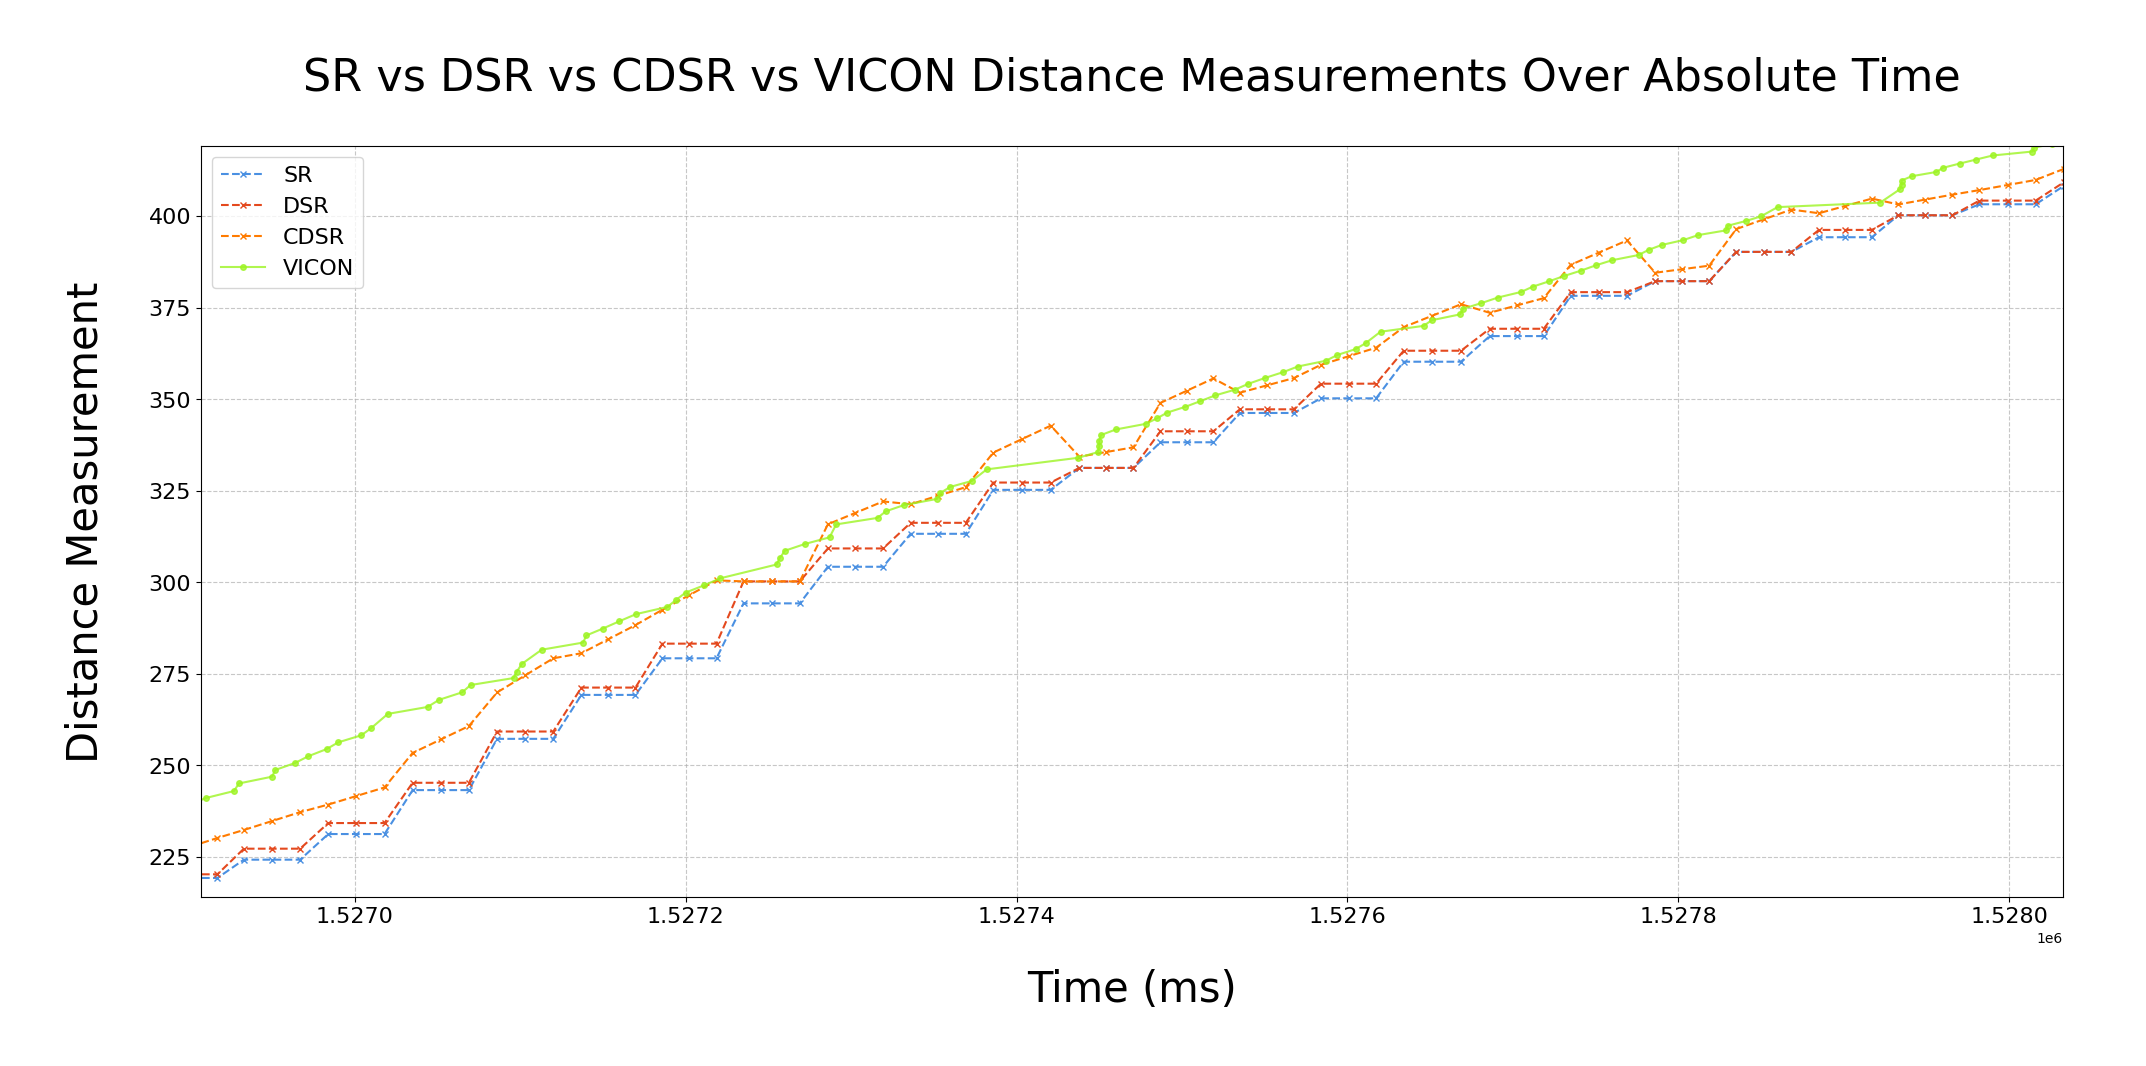
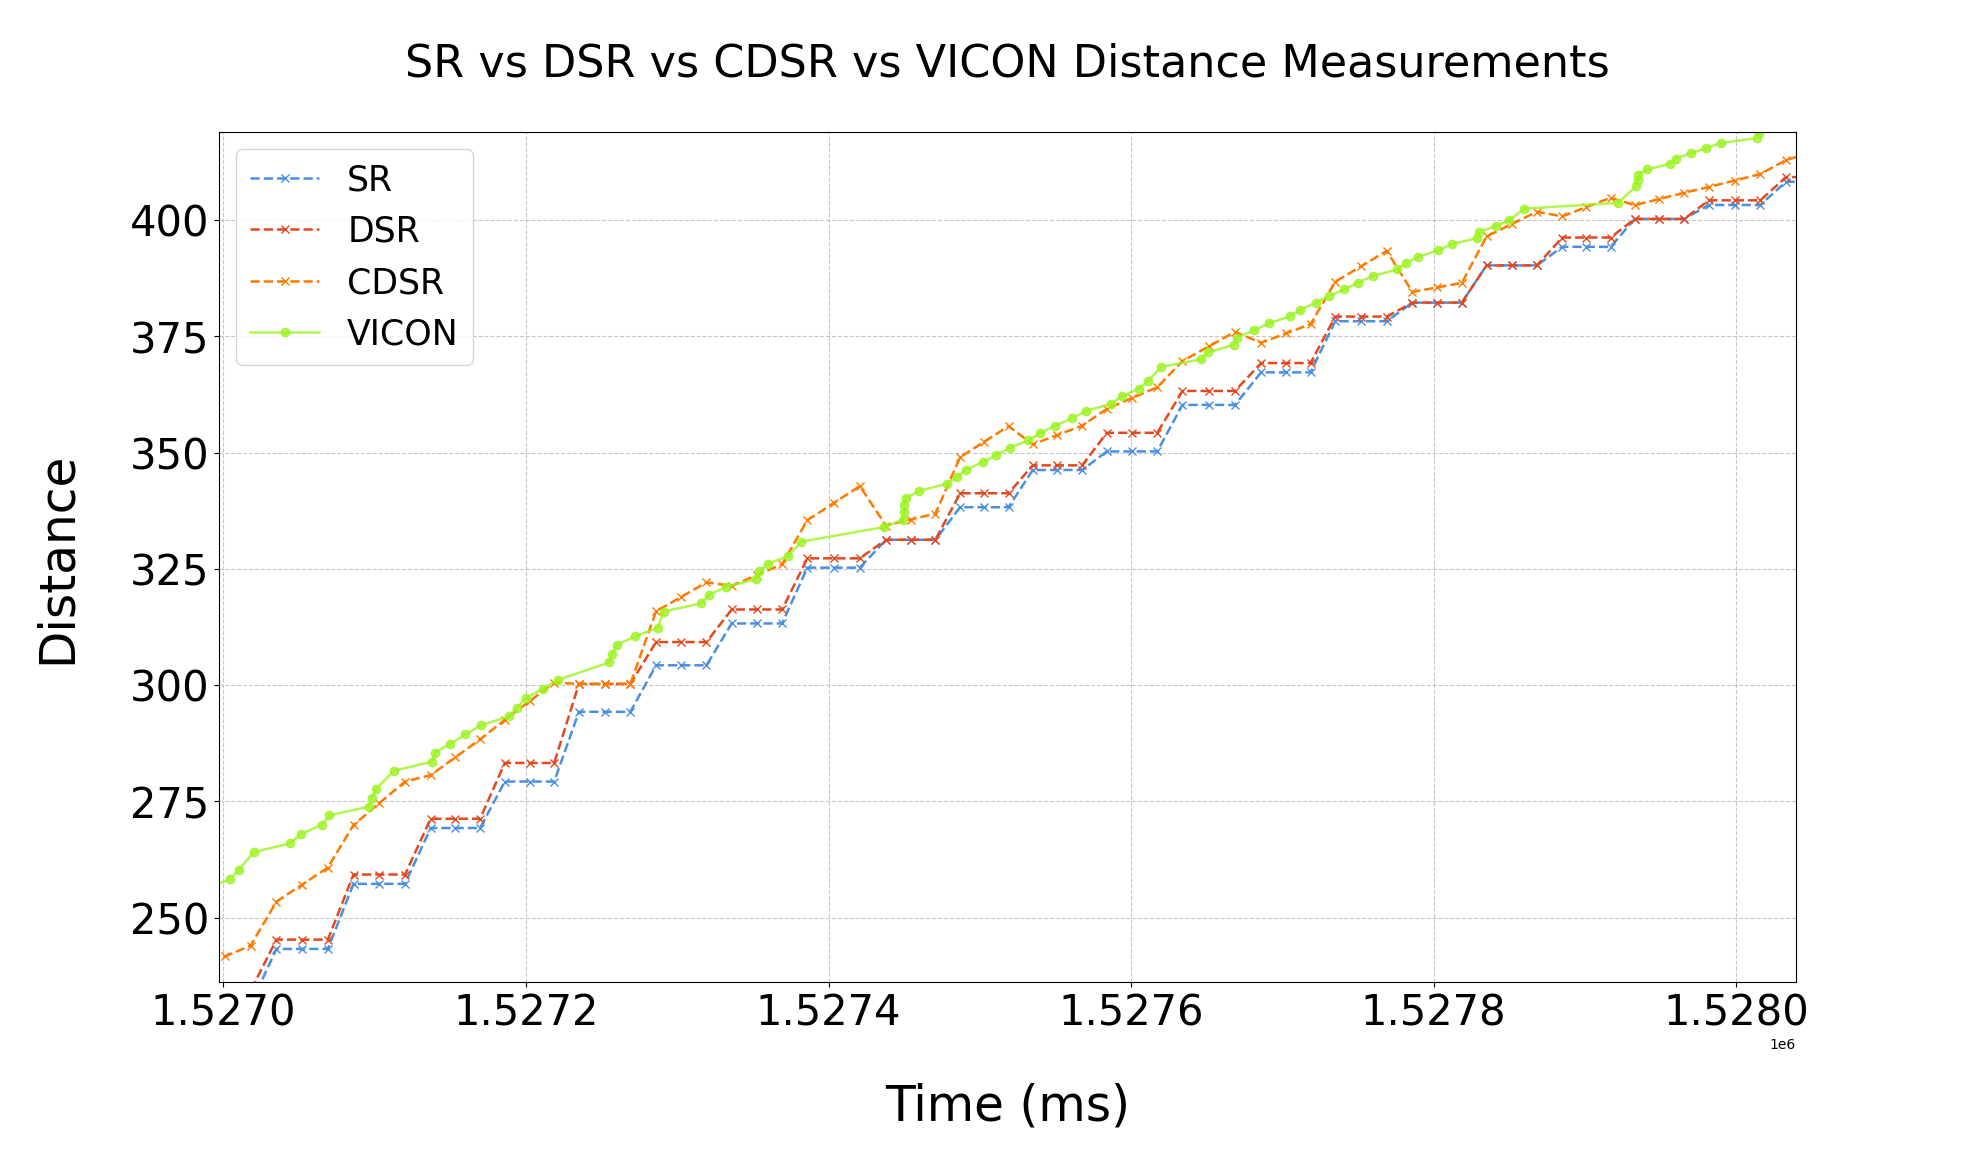
mdf plot

diff --git a/script/evaluation.py b/script/evaluation.py
@@ -313,16 +313,16 @@ def evaluation_data(align_ieee, ieee_sys_time, align_sr_v1, sr_v1_sys_time, alig
     print(f"CDSR : Mean AE(平均绝对误差) = {mean_ae_cdsr:.3f} cm, Max AE(最大绝对误差) = {max_ae_cdsr:.3f} cm, RMSE(均方根误差) = {rmse_cdsr:.3f} cm, MRE(平均相对误差) = {mre_cdsr:.3f}%, Invalid Rate(计算失败率) = {invalid_rate_cdsr:.2f}%")
 
 def ranging_plot(ranging1, ranging1_sys_time, ranging2, ranging2_sys_time, ranging3, ranging3_sys_time, vicon, vicon_sys_time, name1="RANGING1", name2="RANGING2", name3="RANGING3"):
-    plt.plot(ranging1_sys_time, ranging1, color='#4A90E2', label=name1, linestyle='--', marker='x', markersize=4, linewidth=1.5)
-    plt.plot(ranging2_sys_time, ranging2, color="#E4491E", label=name2, linestyle='--', marker='x', markersize=4, linewidth=1.5)
-    plt.plot(ranging3_sys_time, ranging3, color="#FF7B00", label=name3, linestyle='--', marker='x', markersize=4, linewidth=1.5)
-    plt.plot(vicon_sys_time, vicon, color="#9DF423", label='VICON', alpha=0.8, linestyle='-', marker='o', markersize=4, linewidth=1.5)
-    plt.xlabel('Time (ms)', fontsize=30, labelpad=30) 
-    plt.ylabel('Distance Measurement', fontsize=30, labelpad=30)
-    plt.title(f'{name1} vs {name2} vs {name3} vs VICON Distance Measurements Over Absolute Time', fontsize=32, pad=40)
-    plt.xticks(fontsize=16)
-    plt.yticks(fontsize=16) 
-    plt.legend(fontsize=16) 
+    plt.plot(ranging1_sys_time, ranging1, color='#4A90E2', label=name1, linestyle='--', marker='x', markersize=6, linewidth=1.8)
+    plt.plot(ranging2_sys_time, ranging2, color="#E4491E", label=name2, linestyle='--', marker='x', markersize=6, linewidth=1.8)
+    plt.plot(ranging3_sys_time, ranging3, color="#FF7B00", label=name3, linestyle='--', marker='x', markersize=6, linewidth=1.8)
+    plt.plot(vicon_sys_time, vicon, color="#9DF423", label='VICON', alpha=0.8, linestyle='-', marker='o', markersize=6, linewidth=1.8)
+    plt.xlabel('Time (ms)', fontsize=35, labelpad=35) 
+    plt.ylabel('Distance', fontsize=35, labelpad=35)
+    plt.title(f'{name1} vs {name2} vs {name3} vs VICON Distance Measurements', fontsize=32, pad=40)
+    plt.xticks(fontsize=30)
+    plt.yticks(fontsize=30) 
+    plt.legend(fontsize=25)
     plt.grid(True, linestyle='--', alpha=0.7)
     plt.tight_layout()
     plt.show()

diff --git a/script/rate.py b/script/rate.py
@@ -46,19 +46,19 @@ def plot_rate_histogram(rates, bar_cmap='viridis', edge_color="white",
         if count > 0:
             plt.text(bin_edge + (bins[1]-bins[0])/2, count + max(counts)*0.01, 
                      f'{int(count)}', ha='center', va='bottom', 
-                     fontsize=26)
+                     fontsize=35)
     
     ax.spines[['top', 'right']].set_visible(False)
     ax.spines[['left', 'bottom']].set_color(text_color)
-    ax.tick_params(colors=text_color, labelsize=26)
+    ax.tick_params(colors=text_color, labelsize=30)
     
-    plt.title("Compensation Factor Distribution", fontsize=32, pad=40)
-    plt.xlabel("Compensation Factor Value", fontsize=30, labelpad=30)
-    plt.ylabel("Frequency", fontsize=30, labelpad=30)
+    plt.title("Compensation Factor Distribution", fontsize=48, pad=40)
+    plt.xlabel("Compensation Factor Value", fontsize=40, labelpad=30)
+    plt.ylabel("Frequency", fontsize=40, labelpad=30)
     
     ax.grid(True, alpha=0.3, linestyle='--', color='#666666')
     
-    legend = plt.legend(frameon=True, fancybox=True, shadow=True, framealpha=0.95, fontsize=26, loc='upper right')
+    legend = plt.legend(frameon=True, fancybox=True, shadow=True, framealpha=0.95, fontsize=35, loc='upper right')
     legend.get_frame().set_edgecolor('#444444')
     legend.get_frame().set_linewidth(3.0)
     legend.get_frame().set_facecolor('#f8f8f8')
